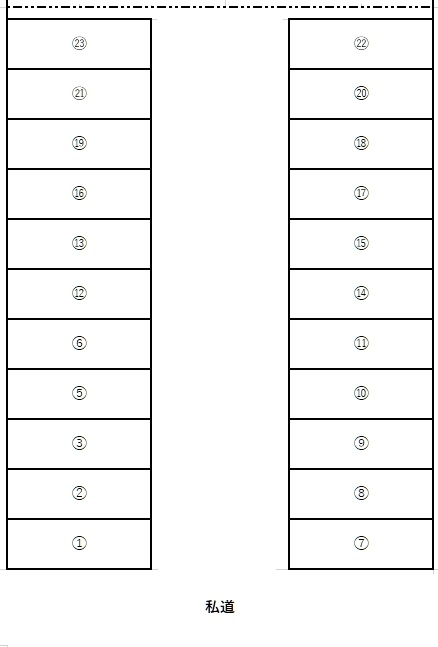
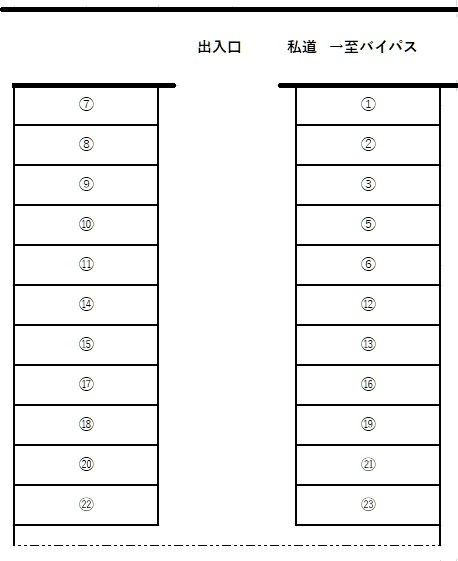
Add files via upload

Changed region(s): [[0.0, 0.0, 1.0, 0.9697], [0.4749, 0.9091, 0.5342, 0.9697], [0.4155, 0.0606, 0.5342, 0.0909]]

diff --git a/hk2parking-aki.html b/hk2parking-aki.html
@@ -104,17 +104,17 @@ body {
 <div class="parking-container">
   <!-- 左列 -->
   <div class="column left-column">
-    <button class="spot-btn free">23</button>
-    <button class="spot-btn taken">21</button>
-    <button class="spot-btn taken">19</button>
-    <button class="spot-btn free">16</button>
-    <button class="spot-btn taken">13</button>
-    <button class="spot-btn taken">12</button>
-    <button class="spot-btn taken">6</button>
-    <button class="spot-btn taken">5</button>
-    <button class="spot-btn taken">3</button>
-    <button class="spot-btn taken">2</button>
-    <button class="spot-btn taken">1</button>
+    <button class="spot-btn free">7</button>
+    <button class="spot-btn taken">8</button>
+    <button class="spot-btn taken">9</button>
+    <button class="spot-btn free">10</button>
+    <button class="spot-btn taken">11</button>
+    <button class="spot-btn taken">14</button>
+    <button class="spot-btn taken">15</button>
+    <button class="spot-btn taken">17</button>
+    <button class="spot-btn taken">18</button>
+    <button class="spot-btn taken">20</button>
+    <button class="spot-btn taken">22</button>
   </div>
 
   <!-- 中央スペース -->
@@ -122,17 +122,17 @@ body {
 
   <!-- 右列 -->
   <div class="column right-column">
-    <button class="spot-btn free">22</button>
-    <button class="spot-btn taken">20</button>
-    <button class="spot-btn taken">18</button>
-    <button class="spot-btn taken">17</button>
-    <button class="spot-btn taken">15</button>
-    <button class="spot-btn taken">14</button>
-    <button class="spot-btn taken">11</button>
-    <button class="spot-btn taken">10</button>
-    <button class="spot-btn taken">9</button>
-    <button class="spot-btn taken">8</button>
-    <button class="spot-btn taken">7</button>
+    <button class="spot-btn free">1</button>
+    <button class="spot-btn taken">2</button>
+    <button class="spot-btn taken">3</button>
+    <button class="spot-btn taken">5</button>
+    <button class="spot-btn taken">6</button>
+    <button class="spot-btn taken">12</button>
+    <button class="spot-btn taken">13</button>
+    <button class="spot-btn taken">16</button>
+    <button class="spot-btn taken">19</button>
+    <button class="spot-btn taken">21</button>
+    <button class="spot-btn taken">23</button>
   </div>
 
   <!-- 区画図 -->
